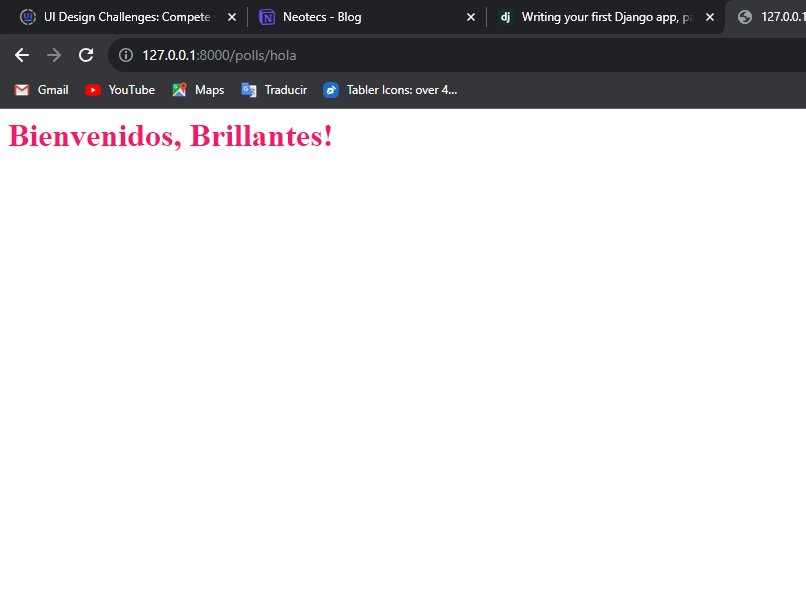
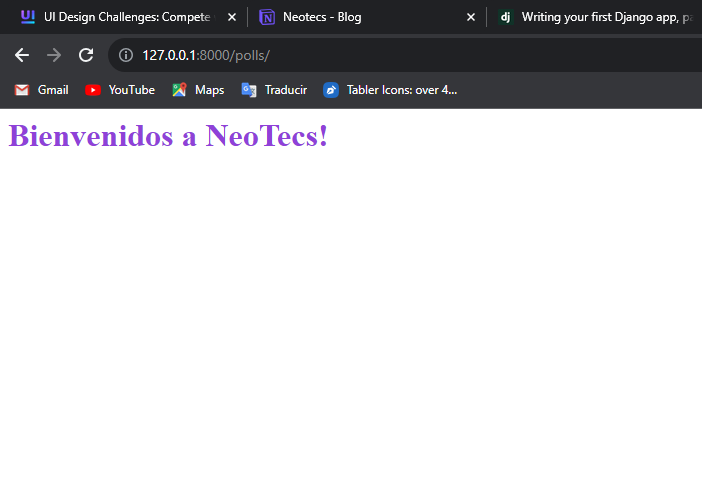
some corrections

Changed region(s): [[0.0, 0.0, 1.0, 0.3006], [0.6282, 0.0, 1.0, 0.0601]]

diff --git a/src/pages/docs/django.js b/src/pages/docs/django.js
@@ -740,16 +740,16 @@ export default function DjangoDocs() {
             <Pre lang="javascript">{
               /*python */ `
               def index(request):
-               return HttpResponse("<h1 style=\\"color:#F0196D;\\">Bienvenidos, Brillantes!</h1>")
+              return HttpResponse("<h1 style=\\"color:#8F41D8;\\">Bienvenidos a NeoTecs!</h1>")
               `
             }</Pre>
             <div className="images-client">
               <img src="/images/color-header.png" alt="Style header" />
             </div>
-            <p>
+            <p className="list-css-span">
               Sería muy tedioso escribir una página HTML completa dentro de
-              views.py. También constituiría un mal diseño, ya que queremos
-              mantener partes separadas de nuestro proyecto en archivos
+              <span>views.py</span>. También constituiría un mal diseño, ya que
+              queremos mantener partes separadas de nuestro proyecto en archivos
               separados siempre que sea posible.
             </p>
             <p>
